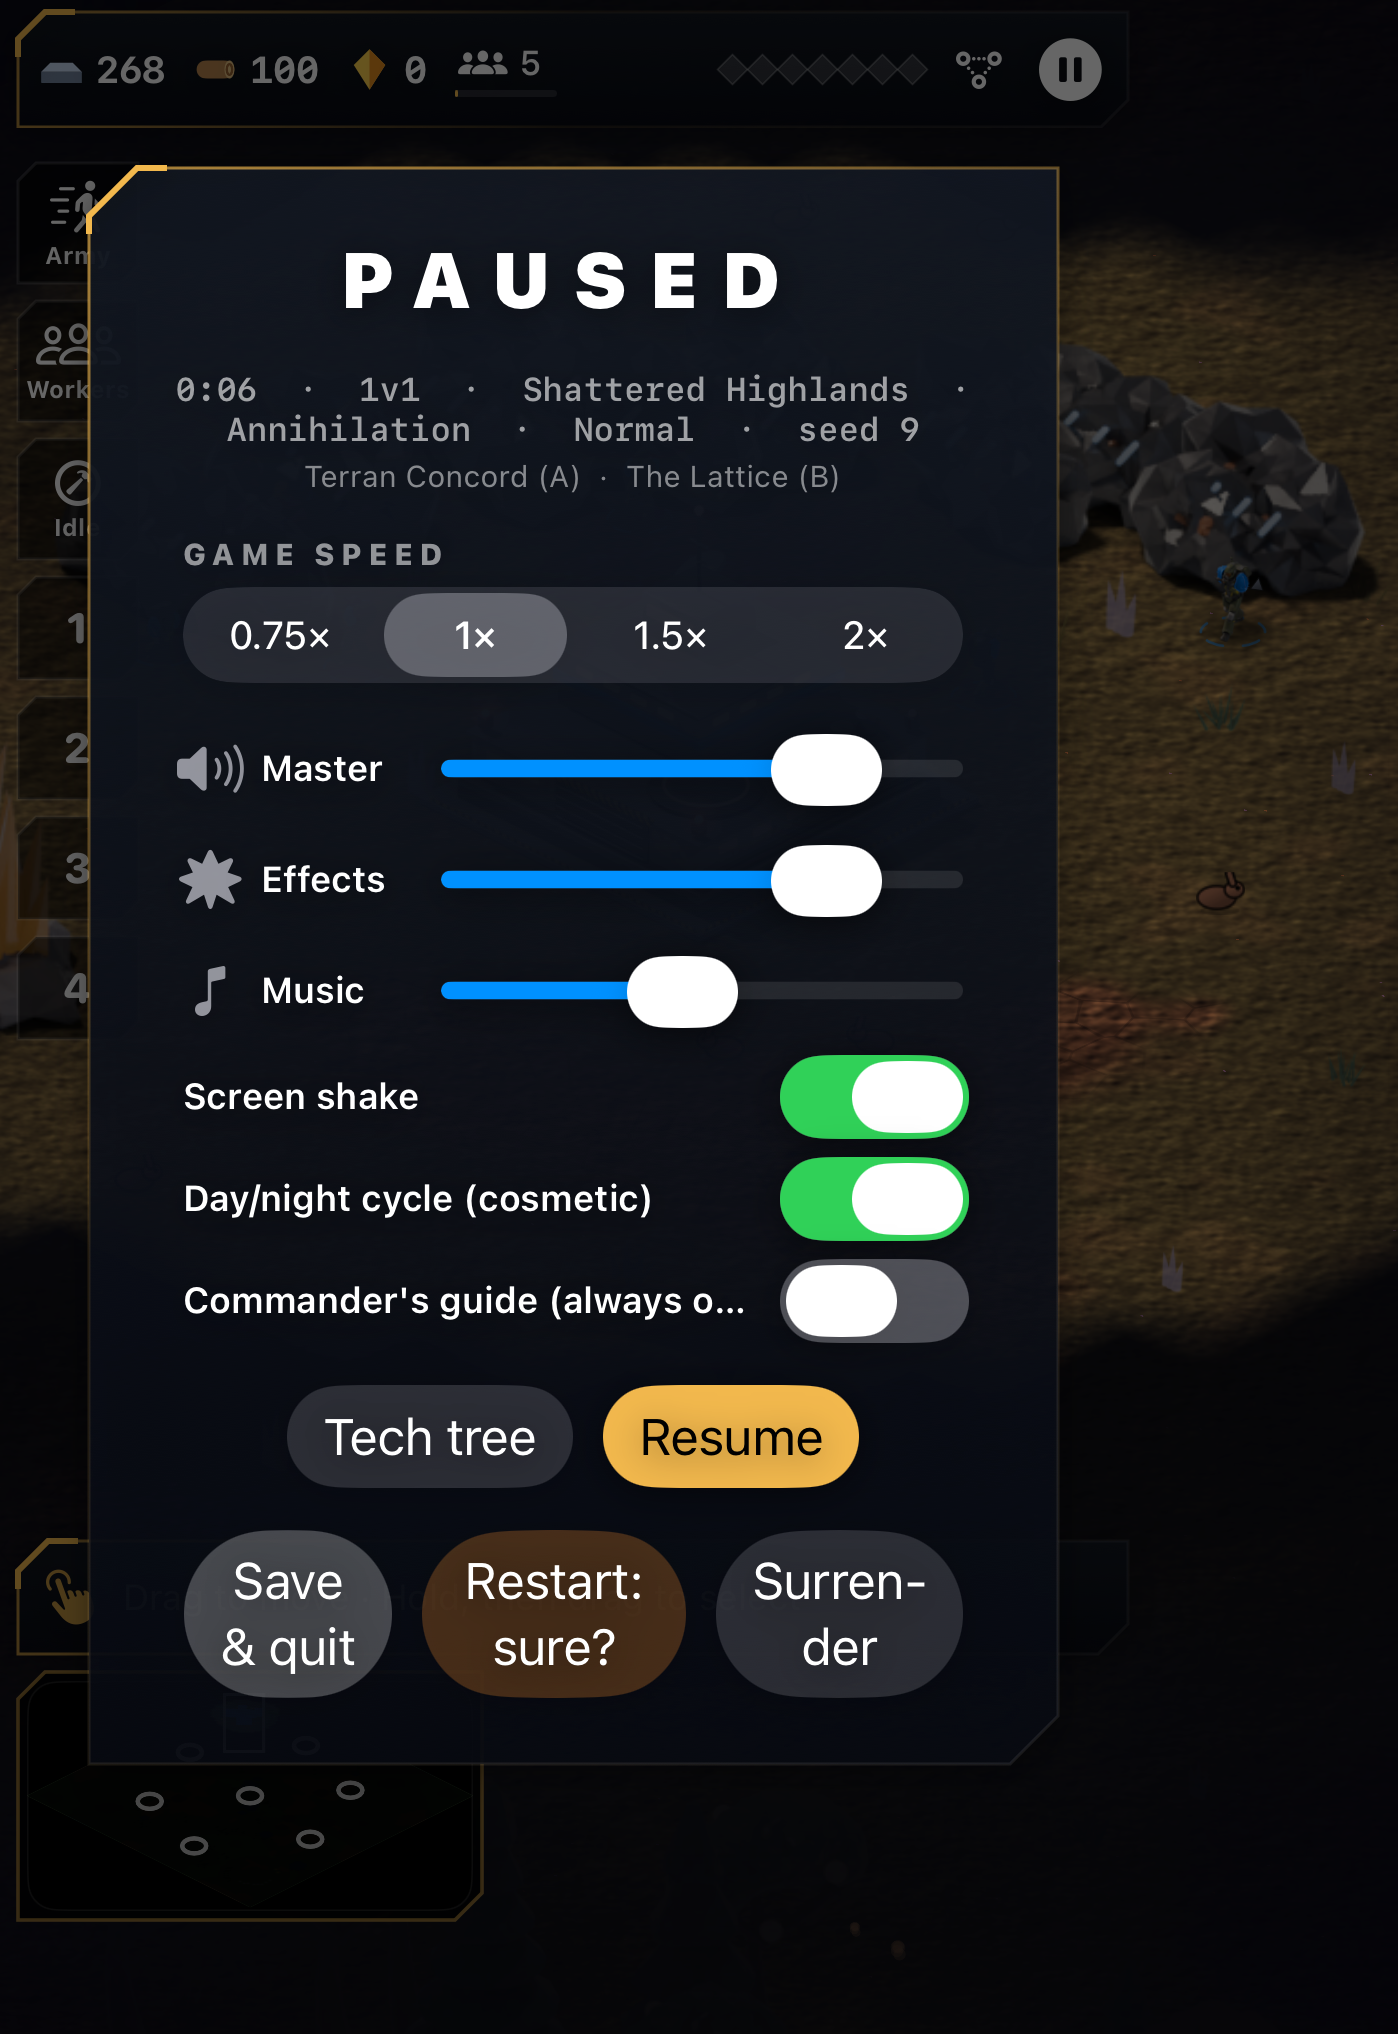
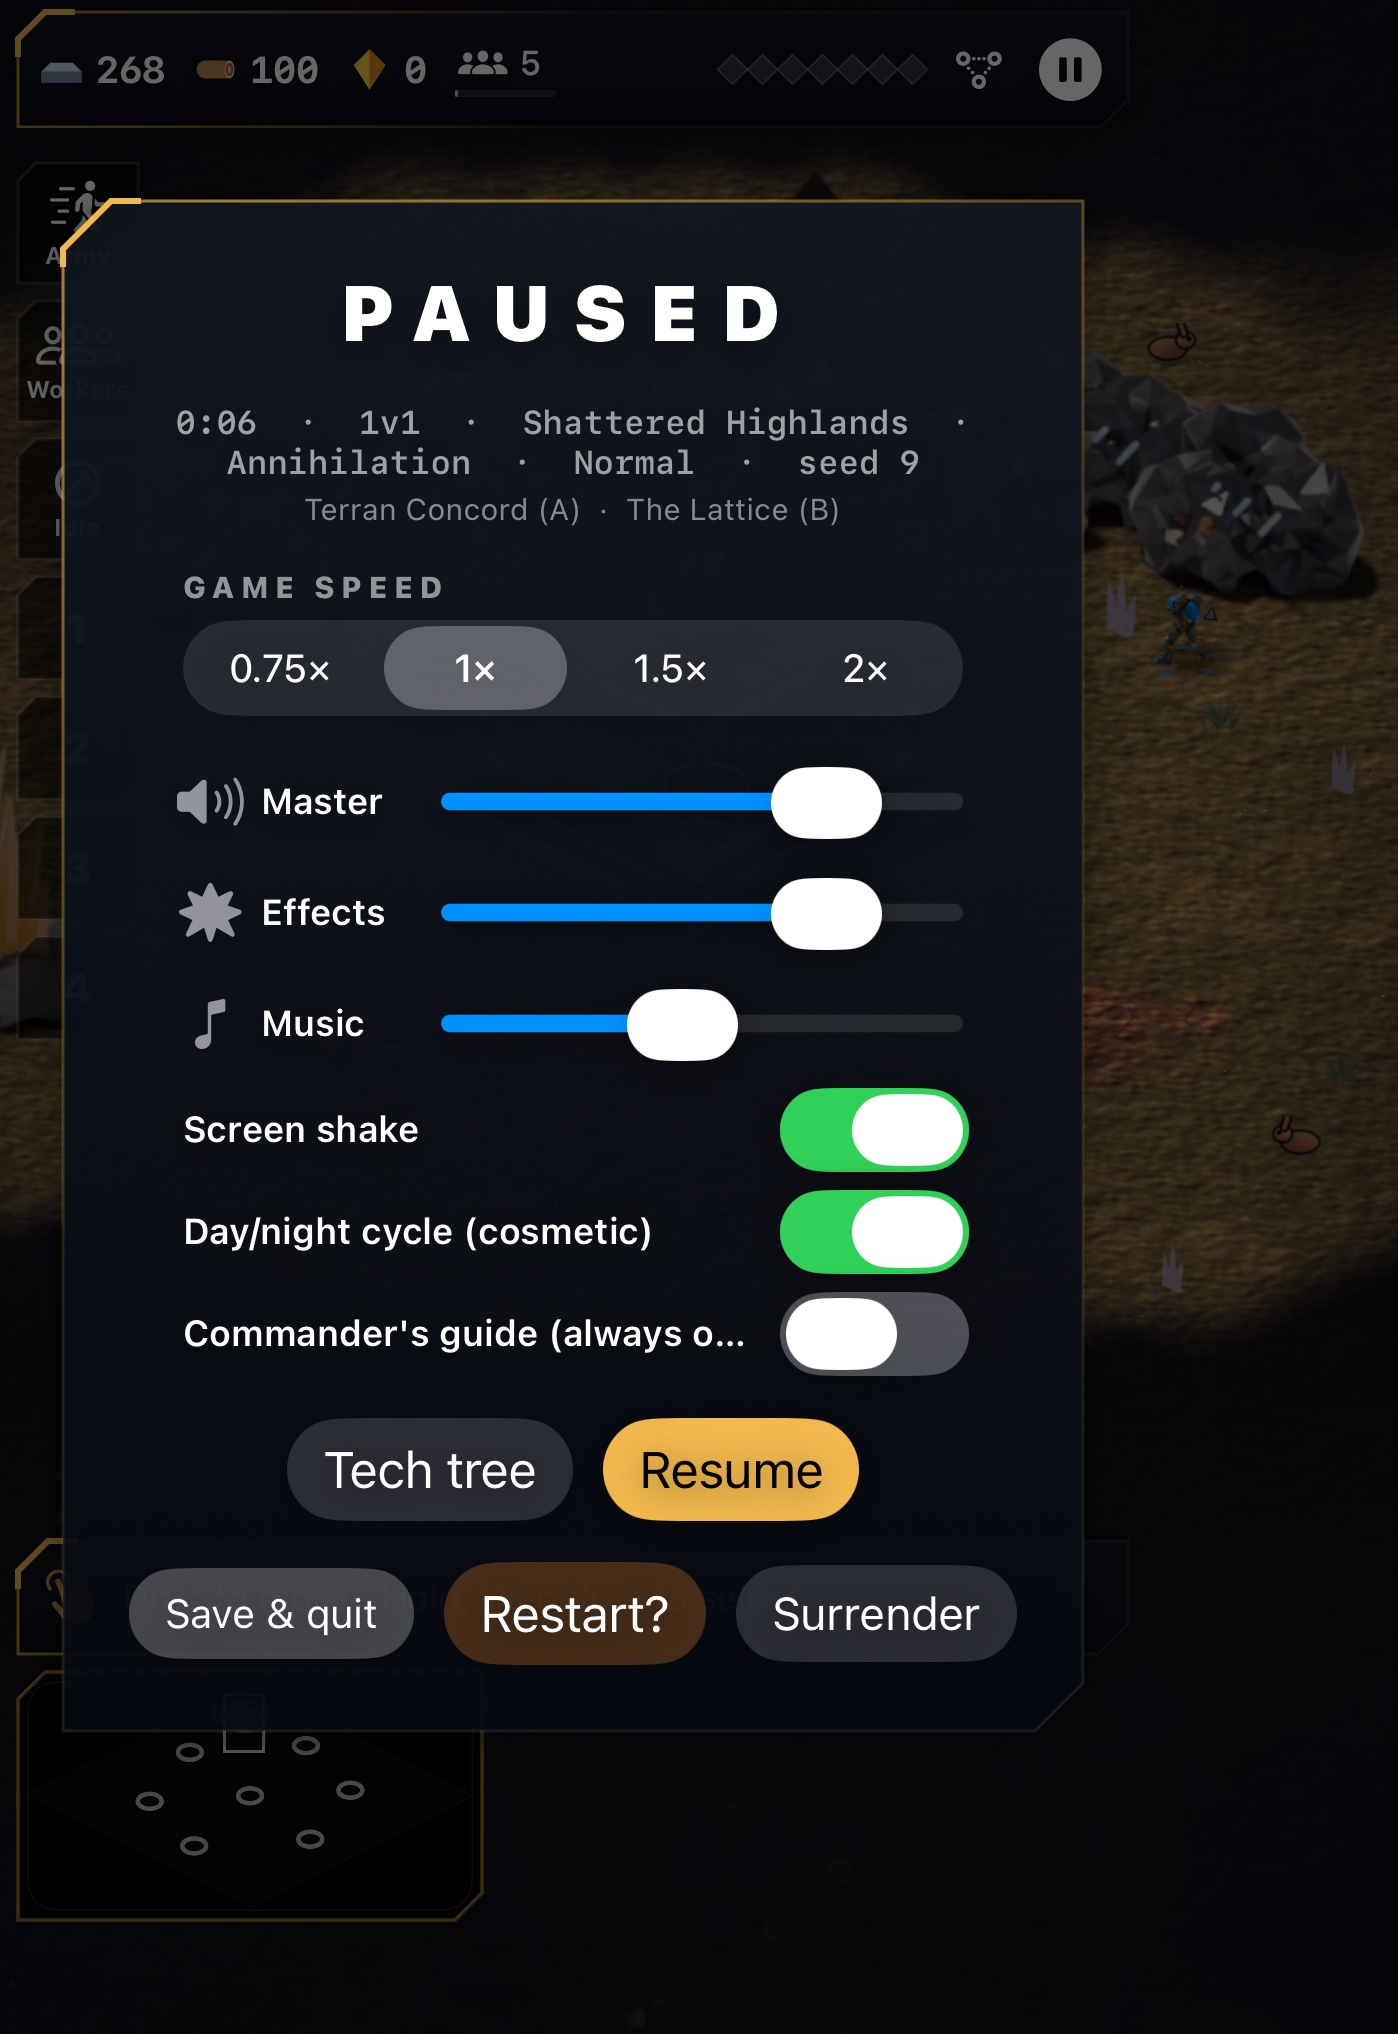
Interface fixes from the Mission 8 checks: dropdown pickers on narrow screens, one-line pause buttons and resource numbers, paler ally rings, Return to Command lands on the title after a match

diff --git a/Meridian/UI/FrontEnd.swift b/Meridian/UI/FrontEnd.swift
@@ -577,7 +577,7 @@ struct SetupView: View {
                                         Text(settings.difficulty.blurb).font(.system(size: 11)).foregroundColor(.white.opacity(0.6))
                                     }
                                     labeled("BATTLEFIELD") {
-                                        Picker("Map", selection: $settings.layout) { ForEach(MapLayout.playable, id: \.self) { Text($0.title).tag($0) } }.pickerStyle(.segmented)
+                                        Picker("Map", selection: $settings.layout) { ForEach(MapLayout.playable, id: \.self) { Text($0.title).tag($0) } }.fitStyle(wide: wide)
                                         HStack(alignment: .top, spacing: 10) {
                                             MapPreview(layout: settings.layout, seed: settings.seed, players: settings.slots.count, quick: settings.quick, teams: settings.teams)
                                                 .frame(width: wide ? 220 : 150, height: wide ? 120 : 84)
@@ -592,7 +592,7 @@ struct SetupView: View {
                                         }
                                     }
                                     labeled("TEMPERAMENT") {
-                                        Picker("Temperament", selection: $settings.strategy) { ForEach(AIStrategy.allCases, id: \.self) { Text($0.temperament).tag($0) } }.pickerStyle(.segmented)
+                                        Picker("Temperament", selection: $settings.strategy) { ForEach(AIStrategy.allCases, id: \.self) { Text($0.temperament).tag($0) } }.fitStyle(wide: wide)
                                         Text(settings.strategy.temperamentBlurb).font(.system(size: 11)).foregroundColor(.white.opacity(0.6))
                                     }
                                     Toggle(isOn: $watch) {
@@ -809,5 +809,13 @@ struct SetupView: View {
             }
         }
         .padding(.horizontal)
+    }
+}
+
+extension Picker {
+    /// Segmented where there is room for every label; a dropdown on narrow screens, where segments would truncate
+    /// names like "Shattered Highlands" and "Expansionist".
+    @ViewBuilder func fitStyle(wide: Bool) -> some View {
+        if wide { pickerStyle(.segmented) } else { pickerStyle(.menu).tint(.white) }
     }
 }

diff --git a/MeridianUITests/FeatureChecksUITests.swift b/MeridianUITests/FeatureChecksUITests.swift
@@ -98,9 +98,9 @@ final class FeatureChecksUITests: XCTestCase {
         shot("pause_01_match_line")
         let restart = app.buttons["Restart"]
         XCTAssertTrue(restart.waitForExistence(timeout: 3), "Restart button"); restart.tap()
-        XCTAssertTrue(app.buttons["Restart: sure?"].waitForExistence(timeout: 2), "first tap should ask")
+        XCTAssertTrue(app.buttons["Restart?"].waitForExistence(timeout: 2), "first tap should ask")
         shot("pause_02_restart_confirm")
-        app.buttons["Restart: sure?"].tap()
+        app.buttons["Restart?"].tap()
         XCTAssertTrue(hud(), "restart should begin a fresh match"); sleep(2)
         shot("pause_03_after_restart")
     }
@@ -166,8 +166,7 @@ final class FeatureChecksUITests: XCTestCase {
         print("LIVE-RESULT \(result)")
         shot("replay_02_live_game_over")
         back.tap()
-        // A finished match lands on the battle setup screen (no saved game to continue); BACK reaches the title.
-        if app.buttons["BACK"].waitForExistence(timeout: 10) { shot("replay_02b_after_match_setup"); app.buttons["BACK"].tap() }
+        // A finished match returns to the title screen, where its recording is under REPLAYS.
         let replays = app.buttons["REPLAYS"]
         XCTAssertTrue(replays.waitForExistence(timeout: 20), "REPLAYS on the title screen"); replays.tap(); sleep(1)
         shot("replay_03_list")

diff --git a/Meridian/UI/MenuViews.swift b/Meridian/UI/MenuViews.swift
@@ -196,12 +196,13 @@ struct PauseView: View {
                             Button("Save & quit") { controller.saveNow(); onQuit() }.buttonStyle(.bordered).tint(.white)
                         }
                         if let r = onRestart {
-                            Button(confirmRestart ? "Restart: sure?" : "Restart") {
+                            Button(confirmRestart ? "Restart?" : "Restart") {
                                 if confirmRestart { if !controller.spectating { SaveStore.delete() }; r() } else { confirmRestart = true }
                             }.buttonStyle(.bordered).tint(confirmRestart ? .orange : .white)
                         }
                         Button("Surrender", role: .destructive) { if !controller.spectating { SaveStore.delete() }; onQuit() }.buttonStyle(.bordered)
                     }
+                    .lineLimit(1).minimumScaleFactor(0.75)
                 }
                 .foregroundColor(.white)
             }

diff --git a/Meridian/Render/GameScene.swift b/Meridian/Render/GameScene.swift
@@ -471,9 +471,10 @@ final class GameScene: SKScene {
                 v.root.insertChild(f, at: 0); v.field = f
             }
             ring.size = CGSize(width: rw, height: rw / 2)
-            // Allies' rings lean toward the player's own colour so "our side" reads at a glance in team games.
+            // Allies' rings are a paler version of their own colour so "our side" reads at a glance in team games.
+            // (Blending toward the player's hue could land on an enemy's: a red ally beside a blue player went purple.)
             var ringColor = TeamColor.sk(e.owner)
-            if !ctl.spectating && world.isAlly(ctl.me, e.owner) { ringColor = ringColor.blend(TeamColor.sk(ctl.me), 0.45) }
+            if !ctl.spectating && world.isAlly(ctl.me, e.owner) { ringColor = ringColor.blend(.white, 0.45) }
             ring.color = ringColor; ring.colorBlendFactor = 1
             ring.alpha = e.isAir ? 0.45 : 0.75
             ring.zPosition = -0.1

diff --git a/Meridian/UI/MeridianApp.swift b/Meridian/UI/MeridianApp.swift
@@ -211,8 +211,10 @@ struct RootView: View {
 
     func backToMenu() {
         let wasTutorial = controller?.tutorial != nil
+        // A finished match or a replay goes back to the title, where its recording waits under REPLAYS.
+        let finished = controller?.gameOver != nil || controller?.isReplay == true
         controller = nil
-        screen = SaveStore.info != nil || wasTutorial ? .title : .setup
+        screen = SaveStore.info != nil || wasTutorial || finished ? .title : .setup
         DispatchQueue.main.async { backdrop.start() }
     }
 

diff --git a/Meridian/UI/HUDView.swift b/Meridian/UI/HUDView.swift
@@ -74,6 +74,7 @@ struct ResourceLabel: View {
             ResourceGlyph(kind: kind).frame(width: 15, height: 15)
             VStack(alignment: .leading, spacing: -2) {
                 Text("\(value)").font(.system(size: compact ? 12.5 : 14, weight: .bold, design: .monospaced))
+                    .lineLimit(1).fixedSize()
                     .contentTransition(.numericText())
                 if !compact { Text("+\(Int(income))/m").font(.system(size: 8, weight: .medium, design: .monospaced)).foregroundColor(.white.opacity(0.5)) }
             }

diff --git a/STATUS.md b/STATUS.md
@@ -222,7 +222,7 @@ Decision-making only; Hard still gets no stat or resource bonus.
 ## Mission 8: menus and interface (verified on macOS, Xcode 27.1, RTS Duo simulator)
 
 - **Setup screen**: a live battlefield preview (generated off the main thread, isometric like the minimap, each start in its commander's colour with the team letter) that redraws for layout, commander count, length and seed; a seed field and a dice to re-roll; the seed is fixed on this screen so the preview is the real map. Phones get Commanders / Rules pages with a one-line summary and a fixed Deploy bar.
-- **HUD**: the site strip groups pips by side (mine, allies, neutral, each enemy team); allies' unit rings lean toward the player's colour; the rail shows six control groups where there is room; long-press Army (or Y) selects idle soldiers.
+- **HUD**: the site strip groups pips by side (mine, allies, neutral, each enemy team); allies' unit rings are a paler version of their own colour; the rail shows six control groups where there is room; long-press Army (or Y) selects idle soldiers.
 - **Game over**: the fog lifts and the camera tours the bases; team games show team totals with a toggle to every commander; Rematch replays the same commanders, rules and seed.
 - **Pause**: the match line (shape, map, mode, difficulty, seed), every commander with their team letter, and a two-tap Restart.
 - **Fog**: enemy buildings remembered through the fog show their last-seen hit points and construction progress ("· last seen" in the selection panel) instead of their live state.
@@ -243,4 +243,14 @@ Decision-making only; Hard still gets no stat or resource bonus.
   - Replay: a Quick match (three orders: two workers queued, workers sent out) lost to Hard Machines at 6:52; the replay from REPLAYS ended at 6:52 with the same result, and the saved file replayed headlessly ends identically (winner P2, "Enemy base destroyed", 412.05 s). After a finished match, Return to Command lands on battle setup (no saved game to continue), so REPLAYS is one BACK away.
   - Beacon (`-beaconcheck`): the configure menu shows the Beacon with its blurb. As first written, a barracks 14 tiles out was refused as "Unexplored": a site reveals only 9 tiles, so most of the Beacon's 17-tile build zone stayed in fog until a unit walked it. **Beacons now see across their whole build zone** (`beaconRadius`, 17 tiles, used for both the zone and the fog), so the same unscouted spot reads "Valid · 14 tiles from the site" and the barracks goes down. `InstallationTests.testBeaconRevealsItsBuildZone` covers it.
 - Pre-existing, not from Mission 8: the resource bar wraps four-digit numbers on the cover screen ("2,18 / 2").
+
+### Follow-up fixes (2026-11-08)
+
+All re-checked with `FeatureChecksUITests` on the RTS Duo (setup, 2v2, pause, replay); screenshots refreshed.
+
+- **Truncated pickers**: on narrow screens Battlefield and Temperament are dropdowns, so "Shattered Highlands" and "Expansionist" show in full; wide screens keep the segments.
+- **Pause buttons**: the bottom row stays on one line (scaling down slightly if it must), and the restart confirmation reads "Restart?" so it fits.
+- **Resource bar**: numbers never wrap ("2,038" on the cover screen); the site strip gives way instead.
+- **Ally rings**: blending toward the player's hue could land on an enemy's colour (red ally + blue player = purple, beside a purple enemy). Allies now get a paler version of their own colour, which can't collide.
+- **Replays after a match**: Return to Command after a finished match or a replay goes to the title screen, where REPLAYS is, instead of battle setup. The replay check still ends at 6:52 with the same result.
 
